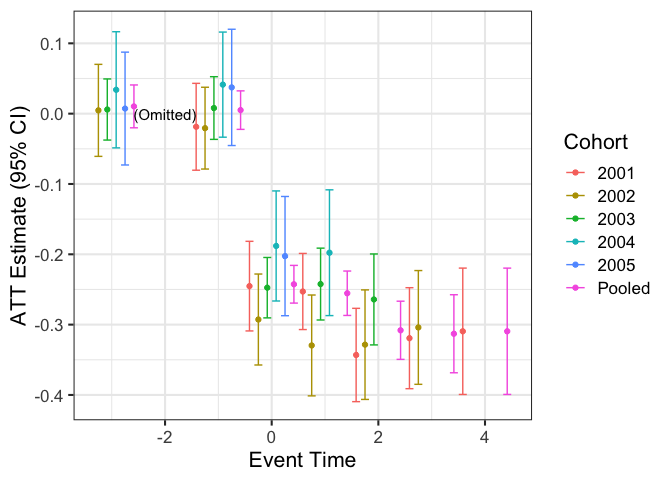
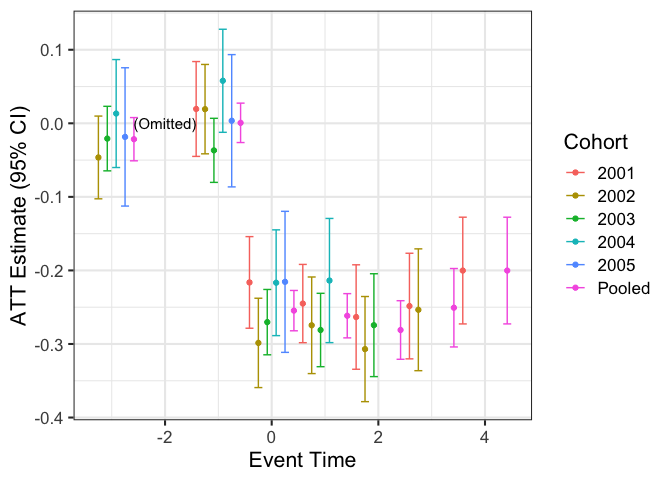
Important: distinguish anticipation from min_control_gap
Note: it is currently broken

diff --git a/README.md b/README.md
@@ -46,6 +46,9 @@ These optional arguments allow you to customize `ES` to deal with issues like an
 
 -   `omitted_event_time`: This lets you decide the pre-treatment event time to use as the reference year. It must be an integer that is less than or equal to `-1`. The default is `-2`.
 -   `min_control_gap` and `max_control_gap`: `min_control_gap` is the minimum number of time periods ahead that a cohort must receive treatment in order to be included in the control group (e.g., Fadlon & Nielsen, 2019, use `min_control_gap=5`). It must be an integer that is at least `1`. The default is `1`. `max_control_gap` is similar but for the maximum number of time periods ahead (e.g., Fadlon & Nielsen, 2019, also use `max_control_gap=5`). It must be an integer that is at least as large as `min_control_gap`. The default is `Inf`.
+-   `anticipation`: This drops observations from the control group this many time periods ahead of the control groups receiving the treatment. For example, consider a treatment group that receives treatment in 2001. If `min_control_gap=5` and `anticipation=0`, then another cohort treated in 2006 can be used as a control group up to 2005, but if `anticipation=1`, then they can be used as a control group up to 2004.
+-   `homogeneous_ATT`: This will only estimate the pooled (homogeneous) treatment effects if set to `TRUE`, and skip estimating the cohort-specific effects, which may be slow for large data. Default is `FALSE`.
+-   `never_treat_action`: This determines how to handle never-treated groups. Those who do not receive treatment should be coded as `NA`. The default option is `never_treat_action="none"`, in which case, it is expected that all observations are treated, and an error is thrown if any observations have `onset_time_var=NA`. Other options are: `never_treat_action="only"`, in which case only never-winners are used as control groups; `never_treat_action="exclude"`, in which case never-winners are never used as controls; and `never_treat_action="keep"`, in which case both never-winners and not-yet-winners are used as controls.
 -   `control_subset_var` and `control_subset_event_time`: These variables allow one to require that the control group satisfies a logical condition at a given event time. `control_subset_var` must be the name of a logical variable in the data (all values of this variable are `TRUE` or `FALSE`) and `control_subset_event_time` is an integer which specifies the event time at which the control group must have a value of `TRUE` on `control_subset_var`. The default is `control_subset_var=NA`, which bypasses this option.
 -   `fill_zeros`: `fill_zeros` is a logical indicator (`TRUE` or `FALSE`) which results in the data being filled and the outcome set to zero for all observations on a unit that are missing within the time frame included in the data. The default is `FALSE`.
 -   `linearize_pretrends`: `linearize_pretrends` is a logical indicator that, when set to `TRUE`, results in linear pre-trends being fit during the pre-event years, and then residualized out of both the pre-event and post-event outcomes. The default is `FALSE`.
@@ -56,7 +59,7 @@ These optional arguments allow you to customize `ES` to deal with issues like an
 You can make your own plots with the results. As a convenience, we have prepared these functions to automatically make your plots:
 
 -   `ES_plot_levels` will plot the levels across event times for the treated and control cohorts.
--   `ES_plot_ATTs` will plot the treatment effects across event times. By default, it will plot heterogeneous effects for each cohort; set `homogeneous_only = TRUE` to only plot the pooled effect under the homogeneity assumption.
+-   `ES_plot_ATTs` will plot the treatment effects across event times. By default, it will plot heterogeneous effects for each cohort; set `homogeneous_ATT = TRUE` to only plot the pooled effect under the homogeneity assumption.
 
 Examples
 ========
@@ -69,6 +72,7 @@ devtools::install_github("setzler/eventStudy/eventStudy")
 
 ``` r
 library(eventStudy)
+library(data.table)
 library(ggplot2)
 ```
 
@@ -81,18 +85,18 @@ sim_data <- ES_simulate_data(units = 1000)[["observed"]]
 sim_data[]
 ```
 
-    ##       individual year treatment_year   outcome
-    ##    1:          1 1999           2003 0.8623693
-    ##    2:          1 2000           2003 0.5465576
-    ##    3:          1 2001           2003 0.7729240
-    ##    4:          1 2002           2003 0.8747746
-    ##    5:          1 2003           2003 0.4526766
-    ##   ---                                         
-    ## 6996:       1000 2001           2002 0.7347018
-    ## 6997:       1000 2002           2002 0.4348880
-    ## 6998:       1000 2003           2002 0.1514518
-    ## 6999:       1000 2004           2002 0.7354693
-    ## 7000:       1000 2005           2002 0.4444197
+    ##       individual year treatment_year     outcome
+    ##    1:          1 1999           2003  0.74214958
+    ##    2:          1 2000           2003  0.46792569
+    ##    3:          1 2001           2003  0.74000928
+    ##    4:          1 2002           2003  0.86994210
+    ##    5:          1 2003           2003 -0.07740194
+    ##   ---                                           
+    ## 6996:       1000 2001           2002  0.36290691
+    ## 6997:       1000 2002           2002  0.70696522
+    ## 6998:       1000 2003           2002  0.33518744
+    ## 6999:       1000 2004           2002  0.77332148
+    ## 7000:       1000 2005           2002  0.25726866
 
 In this data, the treatment is received in the year given by the `treatment_year` variable. The other variables are `individual`, `year`, and `outcome`. We wish to perform an event study to understand the effect of this treatment on this outcome.
 
@@ -124,33 +128,100 @@ results <- ES(long_data=sim_data, outcomevar="outcome",
     ## Warning in as.POSIXlt.POSIXct(x, tz): unknown timezone 'zone/tz/2018i.1.0/
     ## zoneinfo/America/Chicago'
 
-    ## INFO [2019-01-24 18:19:56] Beginning ES.
-    ## INFO [2019-01-24 18:19:56] Beginning data stacking.
-    ## INFO [2019-01-24 18:20:07] Successfully produced a stacked dataset.
-    ## INFO [2019-01-24 18:20:07] Estimated heterogeneous case with OLS.
-    ## INFO [2019-01-24 18:20:08] Estimated homogeneous case with OLS.
-    ## INFO [2019-01-24 18:20:08] ES is finished.
+    ## INFO [2019-02-11 19:17:48] Beginning ES.
+    ## INFO [2019-02-11 19:17:48] Beginning data stacking.
+    ## INFO [2019-02-11 19:17:57] Successfully produced a stacked dataset with 26,966 rows.
+
+    ## Warning in chol.default(mat, pivot = TRUE, tol = tol): the matrix is either
+    ## rank-deficient or indefinite
+
+    ## Warning in chol.default(mat, pivot = TRUE, tol = tol): the matrix is either
+    ## rank-deficient or indefinite
+
+    ## INFO [2019-02-11 19:17:58] Estimated heterogeneous case with OLS.
+
+    ## Warning in chol.default(mat, pivot = TRUE, tol = tol): the matrix is either
+    ## rank-deficient or indefinite
+
+    ## Warning in chol.default(mat, pivot = TRUE, tol = tol): the matrix is either
+    ## rank-deficient or indefinite
+
+    ## INFO [2019-02-11 19:17:58] Estimated homogeneous case with OLS.
+    ## INFO [2019-02-11 19:17:58] ES is finished.
 
 ### Example 2. Estimation using only control cohorts that receive treatment at certain times in the future
 
-Let's only pair a control observation to a treatment observation if the control observation is treated at least 3 years later (`min_control_gap = 3`) and at most 5 years later (`max_control_gap = 5`):
+Let's only pair a control observation to a treatment observation if the control observation is treated at least 3 years later (`min_control_gap = 3`) and at most 5 years later (`max_control_gap = 5`), and the year prior to their treatment may have anticipation so we set `anticipation=1` to exclude the year prior to treatment as control years:
 
 ``` r
 # run the event study
 results2 <- ES(long_data=sim_data, outcomevar="outcome", 
                unit_var="individual", cal_time_var="year", 
                onset_time_var="treatment_year", cluster_vars="individual", 
-               min_control_gap = 3, max_control_gap = 5)
+               min_control_gap = 3, max_control_gap = 5, anticipation = 1)
 ```
 
-    ## INFO [2019-01-24 18:20:08] Beginning ES.
-    ## INFO [2019-01-24 18:20:08] Beginning data stacking.
-    ## INFO [2019-01-24 18:20:13] Successfully produced a stacked dataset.
-    ## INFO [2019-01-24 18:20:13] Estimated heterogeneous case with OLS.
-    ## INFO [2019-01-24 18:20:13] Estimated homogeneous case with OLS.
-    ## INFO [2019-01-24 18:20:13] ES is finished.
+    ## INFO [2019-02-11 19:17:58] Beginning ES.
+    ## INFO [2019-02-11 19:17:58] Beginning data stacking.
+    ## INFO [2019-02-11 19:18:04] Successfully produced a stacked dataset with 11,830 rows.
 
-### Example 3. Estimation using only control cohorts that satisfy a condition at an event time
+    ## Warning in chol.default(mat, pivot = TRUE, tol = tol): the matrix is either
+    ## rank-deficient or indefinite
+
+    ## Warning in chol.default(mat, pivot = TRUE, tol = tol): the matrix is either
+    ## rank-deficient or indefinite
+
+    ## INFO [2019-02-11 19:18:04] Estimated heterogeneous case with OLS.
+
+    ## Warning in chol.default(mat, pivot = TRUE, tol = tol): the matrix is either
+    ## rank-deficient or indefinite
+
+    ## Warning in chol.default(mat, pivot = TRUE, tol = tol): the matrix is either
+    ## rank-deficient or indefinite
+
+    ## INFO [2019-02-11 19:18:05] Estimated homogeneous case with OLS.
+    ## INFO [2019-02-11 19:18:05] ES is finished.
+
+### Example 3. Estimation using only never-winners as the control group
+
+Let's generate some never-winners by re-coding some of the onset times as missing:
+
+``` r
+# coding some observations as never-winners
+sim_data2 <- copy(sim_data)
+sim_data2[runif(nrow(sim_data)) < .5, treatment_year := NA]
+```
+
+``` r
+# run the event study
+results3 <- ES(long_data=sim_data2, outcomevar="outcome", 
+               unit_var="individual", cal_time_var="year", 
+               onset_time_var="treatment_year", cluster_vars="individual", 
+               never_treat_action = "only")
+```
+
+    ## INFO [2019-02-11 19:18:05] Beginning ES.
+    ## INFO [2019-02-11 19:18:05] Beginning data stacking.
+    ## INFO [2019-02-11 19:18:15] Successfully produced a stacked dataset with 33,442 rows.
+
+    ## Warning in chol.default(mat, pivot = TRUE, tol = tol): the matrix is either
+    ## rank-deficient or indefinite
+
+    ## Warning in chol.default(mat, pivot = TRUE, tol = tol): the matrix is either
+    ## rank-deficient or indefinite
+
+    ## INFO [2019-02-11 19:18:15] Estimated heterogeneous case with OLS.
+
+    ## Warning in chol.default(mat, pivot = TRUE, tol = tol): the matrix is either
+    ## rank-deficient or indefinite
+
+    ## Warning in chol.default(mat, pivot = TRUE, tol = tol): the matrix is either
+    ## rank-deficient or indefinite
+
+    ## INFO [2019-02-11 19:18:15] Estimated homogeneous case with OLS.
+    ## INFO [2019-02-11 19:18:15] ES is finished.
+
+### Example 4. Estimation using only control cohorts that satisfy a condition at an event time
 
 Let's randomly assign some control groups to be valid in some years:
 
@@ -163,40 +234,68 @@ Now, with the `control_subset_var` and `control_subset_event_time` arguments, we
 
 ``` r
 # run the event study
-results3 <- ES(long_data=sim_data, outcomevar="outcome", 
+results4 <- ES(long_data=sim_data, outcomevar="outcome", 
                unit_var="individual", cal_time_var="year", 
                onset_time_var="treatment_year", cluster_vars="individual", 
                control_subset_var="valid_control", control_subset_event_time=-1)
 ```
 
-    ## INFO [2019-01-24 18:20:13] Beginning ES.
-    ## INFO [2019-01-24 18:20:13] Beginning data stacking.
-    ## INFO [2019-01-24 18:20:25] Successfully produced a stacked dataset.
-    ## INFO [2019-01-24 18:20:25] Estimated heterogeneous case with OLS.
-    ## INFO [2019-01-24 18:20:25] Estimated homogeneous case with OLS.
-    ## INFO [2019-01-24 18:20:25] ES is finished.
+    ## INFO [2019-02-11 19:18:15] Beginning ES.
+    ## INFO [2019-02-11 19:18:15] Beginning data stacking.
+    ## INFO [2019-02-11 19:18:26] Successfully produced a stacked dataset with 18,070 rows.
 
-### Example 4. Removing linear deviations from parallel trends
+    ## Warning in chol.default(mat, pivot = TRUE, tol = tol): the matrix is either
+    ## rank-deficient or indefinite
+
+    ## Warning in chol.default(mat, pivot = TRUE, tol = tol): the matrix is either
+    ## rank-deficient or indefinite
+
+    ## INFO [2019-02-11 19:18:26] Estimated heterogeneous case with OLS.
+
+    ## Warning in chol.default(mat, pivot = TRUE, tol = tol): the matrix is either
+    ## rank-deficient or indefinite
+
+    ## Warning in chol.default(mat, pivot = TRUE, tol = tol): the matrix is either
+    ## rank-deficient or indefinite
+
+    ## INFO [2019-02-11 19:18:26] Estimated homogeneous case with OLS.
+    ## INFO [2019-02-11 19:18:26] ES is finished.
+
+### Example 5. Removing linear deviations from parallel trends
 
 Suppose we think that pre-trends differ from parallel in a linear way. Using `linearize_pretrends = TRUE` will estimate these linear trends on pre-event years and extrapolate the trends to post-event years:
 
 ``` r
 # run the event study
-results4 <- ES(long_data=sim_data, outcomevar="outcome", 
+results5 <- ES(long_data=sim_data, outcomevar="outcome", 
                unit_var="individual", cal_time_var="year", 
                onset_time_var="treatment_year", cluster_vars="individual", 
                linearize_pretrends = TRUE)
 ```
 
-    ## INFO [2019-01-24 18:20:25] Beginning ES.
-    ## INFO [2019-01-24 18:20:25] Linearizing pre-trends.
-    ## INFO [2019-01-24 18:20:26] Beginning data stacking.
-    ## INFO [2019-01-24 18:20:37] Successfully produced a stacked dataset.
-    ## INFO [2019-01-24 18:20:38] Estimated heterogeneous case with OLS.
-    ## INFO [2019-01-24 18:20:38] Estimated homogeneous case with OLS.
-    ## INFO [2019-01-24 18:20:38] ES is finished.
+    ## INFO [2019-02-11 19:18:26] Beginning ES.
+    ## INFO [2019-02-11 19:18:26] Linearizing pre-trends.
+    ## INFO [2019-02-11 19:18:27] Beginning data stacking.
+    ## INFO [2019-02-11 19:18:37] Successfully produced a stacked dataset with 26,966 rows.
 
-### Example 5. Residualzing on covariates where some are discrete and some are continuous
+    ## Warning in chol.default(mat, pivot = TRUE, tol = tol): the matrix is either
+    ## rank-deficient or indefinite
+
+    ## Warning in chol.default(mat, pivot = TRUE, tol = tol): the matrix is either
+    ## rank-deficient or indefinite
+
+    ## INFO [2019-02-11 19:18:37] Estimated heterogeneous case with OLS.
+
+    ## Warning in chol.default(mat, pivot = TRUE, tol = tol): the matrix is either
+    ## rank-deficient or indefinite
+
+    ## Warning in chol.default(mat, pivot = TRUE, tol = tol): the matrix is either
+    ## rank-deficient or indefinite
+
+    ## INFO [2019-02-11 19:18:37] Estimated homogeneous case with OLS.
+    ## INFO [2019-02-11 19:18:37] ES is finished.
+
+### Example 6. Residualzing on covariates where some are discrete and some are continuous
 
 Let's add some discrete and continuous covariates to the data:
 
@@ -214,7 +313,7 @@ The argument `residualize_covariates = TRUE` will tell `ES` to residualize on co
 
 ``` r
 # run the event study
-results5 <- ES(long_data=sim_data, outcomevar="outcome",
+results6 <- ES(long_data=sim_data, outcomevar="outcome",
                unit_var="individual", cal_time_var="year",
                onset_time_var="treatment_year", cluster_vars="individual",
                residualize_covariates = TRUE,
@@ -222,15 +321,29 @@ results5 <- ES(long_data=sim_data, outcomevar="outcome",
                cont_covars = c('cont_covar1','cont_covar2'))
 ```
 
-    ## INFO [2019-01-24 18:20:38] Beginning ES.
-    ## INFO [2019-01-24 18:20:38] Residualizing on covariates.
-    ## INFO [2019-01-24 18:20:39] Beginning data stacking.
-    ## INFO [2019-01-24 18:20:49] Successfully produced a stacked dataset.
-    ## INFO [2019-01-24 18:20:50] Estimated heterogeneous case with OLS.
-    ## INFO [2019-01-24 18:20:50] Estimated homogeneous case with OLS.
-    ## INFO [2019-01-24 18:20:50] ES is finished.
+    ## INFO [2019-02-11 19:18:37] Beginning ES.
+    ## INFO [2019-02-11 19:18:37] Residualizing on covariates.
+    ## INFO [2019-02-11 19:18:38] Beginning data stacking.
+    ## INFO [2019-02-11 19:18:47] Successfully produced a stacked dataset with 26,966 rows.
 
-### Example 6. Filling in missing rows with zeros.
+    ## Warning in chol.default(mat, pivot = TRUE, tol = tol): the matrix is either
+    ## rank-deficient or indefinite
+
+    ## Warning in chol.default(mat, pivot = TRUE, tol = tol): the matrix is either
+    ## rank-deficient or indefinite
+
+    ## INFO [2019-02-11 19:18:48] Estimated heterogeneous case with OLS.
+
+    ## Warning in chol.default(mat, pivot = TRUE, tol = tol): the matrix is either
+    ## rank-deficient or indefinite
+
+    ## Warning in chol.default(mat, pivot = TRUE, tol = tol): the matrix is either
+    ## rank-deficient or indefinite
+
+    ## INFO [2019-02-11 19:18:48] Estimated homogeneous case with OLS.
+    ## INFO [2019-02-11 19:18:48] ES is finished.
+
+### Example 7. Filling in missing rows with zeros.
 
 Let's randomly drop some of the rows from the data so that it is no longer balanced:
 
@@ -242,19 +355,33 @@ Suppose that missing rows have a true value of zero for the outcome. We can add 
 
 ``` r
 # run the event study
-results6 <- ES(long_data=sim_data, outcomevar="outcome", 
+results7 <- ES(long_data=sim_data, outcomevar="outcome", 
                unit_var="individual", cal_time_var="year", 
                onset_time_var="treatment_year", cluster_vars="individual",
                fill_zeros = TRUE)
 ```
 
-    ## INFO [2019-01-24 18:20:50] Beginning ES.
-    ## INFO [2019-01-24 18:20:50] Filling in zeros.
-    ## INFO [2019-01-24 18:20:51] Beginning data stacking.
-    ## INFO [2019-01-24 18:21:01] Successfully produced a stacked dataset.
-    ## INFO [2019-01-24 18:21:01] Estimated heterogeneous case with OLS.
-    ## INFO [2019-01-24 18:21:02] Estimated homogeneous case with OLS.
-    ## INFO [2019-01-24 18:21:02] ES is finished.
+    ## INFO [2019-02-11 19:18:48] Beginning ES.
+    ## INFO [2019-02-11 19:18:48] Filling in zeros.
+    ## INFO [2019-02-11 19:18:48] Beginning data stacking.
+    ## INFO [2019-02-11 19:18:58] Successfully produced a stacked dataset with 26,966 rows.
+
+    ## Warning in chol.default(mat, pivot = TRUE, tol = tol): the matrix is either
+    ## rank-deficient or indefinite
+
+    ## Warning in chol.default(mat, pivot = TRUE, tol = tol): the matrix is either
+    ## rank-deficient or indefinite
+
+    ## INFO [2019-02-11 19:18:59] Estimated heterogeneous case with OLS.
+
+    ## Warning in chol.default(mat, pivot = TRUE, tol = tol): the matrix is either
+    ## rank-deficient or indefinite
+
+    ## Warning in chol.default(mat, pivot = TRUE, tol = tol): the matrix is either
+    ## rank-deficient or indefinite
+
+    ## INFO [2019-02-11 19:18:59] Estimated homogeneous case with OLS.
+    ## INFO [2019-02-11 19:18:59] ES is finished.
 
 Note: This cannot be combined with residualizing on covariates, since ES would need to know how to fill in the covariates during the years that observations are missing.
 
@@ -266,7 +393,7 @@ Now, we plot the results. First, we plot the treatment and control means. `ES` h
 ES_plot_levels(results, lower_event = -3, upper_event = 5) + ylab("Mean of the Outcome")
 ```
 
-![](README_files/figure-markdown_github-ascii_identifiers/unnamed-chunk-14-1.png)
+![](README_files/figure-markdown_github-ascii_identifiers/unnamed-chunk-16-1.png)
 
 Note that, becuase `omitted_event_time=-2`, the treatment and control group means must both be zero at event time -2, for each treatment-control pair.
 
@@ -276,13 +403,21 @@ Next, we plot the treatment effects, comparing the cohort-specific effects to th
 ES_plot_ATTs(results, lower_event = -3, upper_event = 5) + ylab("ATT Estimate (95% CI)")
 ```
 
-![](README_files/figure-markdown_github-ascii_identifiers/unnamed-chunk-15-1.png)
+    ## Warning: Removed 14 rows containing missing values (geom_point).
+
+    ## Warning: Removed 14 rows containing missing values (geom_errorbar).
+
+![](README_files/figure-markdown_github-ascii_identifiers/unnamed-chunk-17-1.png)
 
 Finally, if we only care about the estimates under the homogeneity assumption, we can show these as follows:
 
 ``` r
-ES_plot_ATTs(results, lower_event = -3, upper_event = 5, homogeneous_only = TRUE) + 
+ES_plot_ATTs(results, lower_event = -3, upper_event = 5, homogeneous_ATT = TRUE) + 
   ylab("ATT Estimate (95% CI)")
 ```
 
-![](README_files/figure-markdown_github-ascii_identifiers/unnamed-chunk-16-1.png)
+    ## Warning: Removed 4 rows containing missing values (geom_point).
+
+    ## Warning: Removed 4 rows containing missing values (geom_errorbar).
+
+![](README_files/figure-markdown_github-ascii_identifiers/unnamed-chunk-18-1.png)
